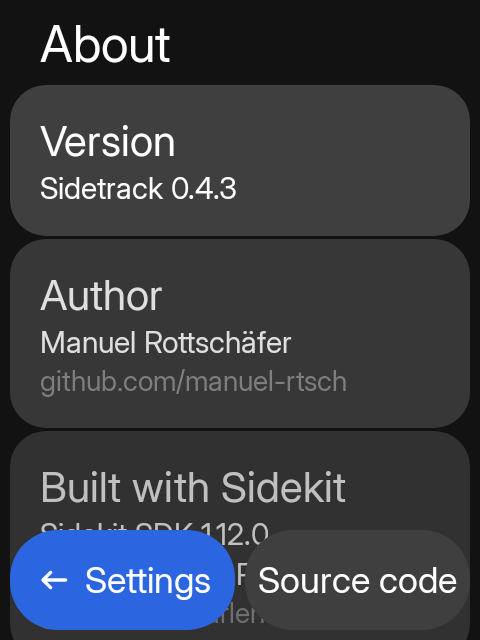
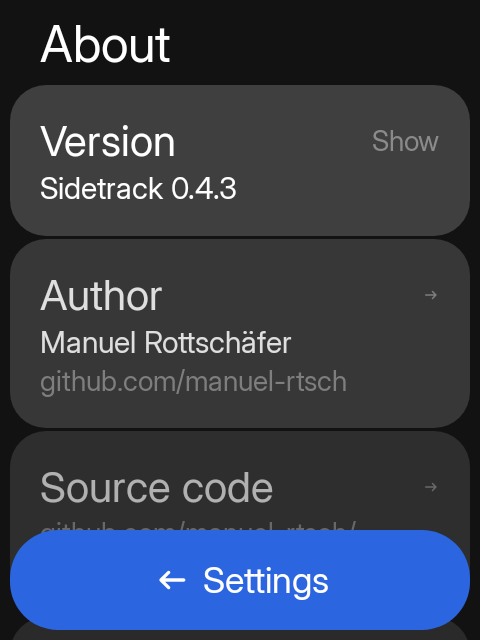
feat(about): make every card a keypad focus stop
The About page had one keyboard target: the Version card. The rest were
inert, so D-pad focus could not move through the page and Sidekit's list
could not scroll to the licences.

Every card now performs something and is a focus stop, with the first
card focused on entry. Source code left the action bar, where a link does
not belong, and became a body card beside the Author and Sidekit cards.
Author, Source code and Sidekit open their GitHub pages; Version toggles
the build details; Licences toggles its table and starts folded.

Add a focus-order test and cover the Version toggle; record the new
screenshot.

diff --git a/app/src/main/java/io/github/manuelrtsch/sidetrack/SidetrackAboutScreen.kt b/app/src/main/java/io/github/manuelrtsch/sidetrack/SidetrackAboutScreen.kt
@@ -9,6 +9,7 @@ import androidx.compose.foundation.layout.Row
 import androidx.compose.foundation.layout.fillMaxWidth
 import androidx.compose.foundation.lazy.rememberLazyListState
 import androidx.compose.runtime.Composable
+import androidx.compose.runtime.LaunchedEffect
 import androidx.compose.runtime.getValue
 import androidx.compose.runtime.mutableStateOf
 import androidx.compose.runtime.remember
@@ -16,37 +17,46 @@ import androidx.compose.runtime.saveable.rememberSaveable
 import androidx.compose.runtime.setValue
 import androidx.compose.ui.Alignment
 import androidx.compose.ui.Modifier
+import androidx.compose.ui.focus.FocusRequester
+import androidx.compose.ui.focus.focusRequester
 import androidx.compose.ui.platform.LocalContext
 import androidx.compose.ui.text.style.TextAlign
 import androidx.compose.ui.unit.dp
 import androidx.core.net.toUri
-import hrln.interactive.sidekit.design.action.ActionMotion
-import hrln.interactive.sidekit.design.action.ActionTone
-import hrln.interactive.sidekit.design.action.SideAction
 import hrln.interactive.sidekit.design.components.SidekitCard
 import hrln.interactive.sidekit.design.components.SidekitList
 import hrln.interactive.sidekit.design.components.SidekitScaffold
 import hrln.interactive.sidekit.design.components.SidekitText
 import hrln.interactive.sidekit.design.components.listFade
 import hrln.interactive.sidekit.design.theme.SidekitTheme
+import io.github.manuelrtsch.sidetrack.ui.InlineLinkArrowSize
+import io.github.manuelrtsch.sidetrack.ui.LinkArrow
 
-/** Where Sidetrack's source lives; the About page's "Source code" action opens it in a browser. */
+/** Where Sidetrack's source lives; the About page's "Source code" card opens it in a browser. */
 internal const val SOURCE_CODE_URL = "https://github.com/manuel-rtsch/Sidetrack"
 
+/** The author's page, opened from the Author card. */
+internal const val AUTHOR_URL = "https://github.com/manuel-rtsch"
+
+/** Sidekit's source lives in its author's repository; the Sidekit card opens it. */
+internal const val SIDEKIT_URL = "https://github.com/HarlenPostill/Sidekit"
+
 /**
- * Hands [SOURCE_CODE_URL] to whatever browser the device has. A ROM without one leaves the press
- * with nothing to do — there is no notice bar on the About page and nothing to undo — so the
- * missing activity is swallowed rather than crashing the app the user is reading about it in.
+ * Hands a page to whatever browser the device has. A ROM without one leaves the press with
+ * nothing to do — there is no notice bar on the About page and nothing to undo — so the missing
+ * activity is swallowed rather than crashing the app the user is reading about it in.
  */
-internal fun openSourceCode(context: Context) {
+internal fun openPage(context: Context, url: String) {
     try {
         context.startActivity(
-            Intent(Intent.ACTION_VIEW, SOURCE_CODE_URL.toUri()).addFlags(Intent.FLAG_ACTIVITY_NEW_TASK)
+            Intent(Intent.ACTION_VIEW, url.toUri()).addFlags(Intent.FLAG_ACTIVITY_NEW_TASK)
         )
     } catch (_: ActivityNotFoundException) {
         // No browser installed.
     }
 }
+
+internal fun openSourceCode(context: Context) = openPage(context, SOURCE_CODE_URL)
 
 private data class Licence(val software: String, val licence: String)
 
@@ -98,28 +108,29 @@ fun SidetrackAboutScreen(onBack: () -> Unit, backLabel: String = "Settings") {
     val versionName = packageInfo.versionName.orEmpty()
     val versionCode = packageInfo.longVersionCode
     val listState = rememberLazyListState()
+    // Every card is an action and therefore a focus stop: D-pad navigation scrolls the list the
+    // same way it does on the settings screens, instead of stalling on the one clickable card.
+    val first = remember { FocusRequester() }
+    LaunchedEffect(Unit) { runCatching { first.requestFocus() } }
     // The build number stays out of the screenshot: the plain tag is enough until it is asked
     // for, and a commit-count build number would change the image on every build.
     var showBuild by rememberSaveable { mutableStateOf(false) }
+    // The licence table is a reference, not a first read. Folding it away keeps the page short
+    // enough to reach every card with the keypad.
+    var showLicences by rememberSaveable { mutableStateOf(false) }
 
     SidekitScaffold(
         title = "About",
-        actions = sidetrackBack(backLabel, onBack) + SideAction(
-            "sourceCode",
-            "Source code",
-            tone = ActionTone.Muted,
-            motion = ActionMotion.Up,
-            onClick = { openSourceCode(context) }
-        )
+        actions = sidetrackBack(backLabel, onBack)
     ) { padding ->
         SidekitList(padding, state = listState) {
             item(key = "version") {
                 SidekitCard(
-                    Modifier.listFade(listState, 0).fillMaxWidth(),
-                    onClick = { showBuild = true }
+                    Modifier.listFade(listState, 0).fillMaxWidth().focusRequester(first),
+                    onClick = { showBuild = !showBuild }
                 ) {
                     Column(verticalArrangement = Arrangement.spacedBy(4.dp)) {
-                        SidekitText("Version", style = SidekitTheme.typography.headline)
+                        CardHeading("Version") { DisclosureLabel(showBuild) }
                         SidekitText(
                             "Sidetrack ${plainVersionName(versionName)}",
                             style = SidekitTheme.typography.label,
@@ -143,10 +154,17 @@ fun SidetrackAboutScreen(onBack: () -> Unit, backLabel: String = "Settings") {
                 }
             }
             item(key = "author") {
-                SidekitCard(Modifier.listFade(listState, 1).fillMaxWidth()) {
+                SidekitCard(
+                    Modifier.listFade(listState, 1).fillMaxWidth(),
+                    onClick = { openPage(context, AUTHOR_URL) }
+                ) {
                     Column(verticalArrangement = Arrangement.spacedBy(4.dp)) {
-                        SidekitText("Author", style = SidekitTheme.typography.headline)
-                        SidekitText("Manuel Rottschäfer", style = SidekitTheme.typography.label, maxLines = Int.MAX_VALUE)
+                        CardHeading("Author") { CardLinkArrow() }
+                        SidekitText(
+                            "Manuel Rottschäfer",
+                            style = SidekitTheme.typography.label,
+                            maxLines = Int.MAX_VALUE
+                        )
                         SidekitText(
                             "github.com/manuel-rtsch",
                             style = SidekitTheme.typography.caption,
@@ -156,10 +174,29 @@ fun SidetrackAboutScreen(onBack: () -> Unit, backLabel: String = "Settings") {
                     }
                 }
             }
-            item(key = "sidekit") {
-                SidekitCard(Modifier.listFade(listState, 2).fillMaxWidth()) {
+            item(key = "source") {
+                SidekitCard(
+                    Modifier.listFade(listState, 2).fillMaxWidth(),
+                    onClick = { openSourceCode(context) }
+                ) {
                     Column(verticalArrangement = Arrangement.spacedBy(4.dp)) {
-                        SidekitText("Built with Sidekit", style = SidekitTheme.typography.headline)
+                        CardHeading("Source code") { CardLinkArrow() }
+                        SidekitText(
+                            "github.com/manuel-rtsch/Sidetrack",
+                            style = SidekitTheme.typography.caption,
+                            color = SidekitTheme.colors.surfaceA6,
+                            maxLines = Int.MAX_VALUE
+                        )
+                    }
+                }
+            }
+            item(key = "sidekit") {
+                SidekitCard(
+                    Modifier.listFade(listState, 3).fillMaxWidth(),
+                    onClick = { openPage(context, SIDEKIT_URL) }
+                ) {
+                    Column(verticalArrangement = Arrangement.spacedBy(4.dp)) {
+                        CardHeading("Built with Sidekit") { CardLinkArrow() }
                         SidekitText(
                             "Sidekit SDK ${BuildConfig.SIDEKIT_VERSION}",
                             style = SidekitTheme.typography.label,
@@ -180,17 +217,58 @@ fun SidetrackAboutScreen(onBack: () -> Unit, backLabel: String = "Settings") {
                 }
             }
             item(key = "licenses") {
-                SidekitCard(Modifier.listFade(listState, 3).fillMaxWidth()) {
-                    Column(verticalArrangement = Arrangement.spacedBy(12.dp)) {
-                        SidekitText("Licenses", style = SidekitTheme.typography.headline)
-                        licences.forEach { entry ->
-                            LicenceRow(entry)
+                SidekitCard(
+                    Modifier.listFade(listState, 4).fillMaxWidth(),
+                    onClick = { showLicences = !showLicences }
+                ) {
+                    Column(verticalArrangement = Arrangement.spacedBy(if (showLicences) 12.dp else 4.dp)) {
+                        CardHeading("Licenses") { DisclosureLabel(showLicences) }
+                        if (showLicences) {
+                            licences.forEach { entry ->
+                                LicenceRow(entry)
+                            }
+                        } else {
+                            SidekitText(
+                                licences.map { it.licence }.distinct().joinToString(" · "),
+                                style = SidekitTheme.typography.caption,
+                                color = SidekitTheme.colors.surfaceA6,
+                                maxLines = Int.MAX_VALUE
+                            )
                         }
                     }
                 }
             }
         }
     }
+}
+
+/** A card's title on the left, with the thing the card does on the right. */
+@Composable
+private fun CardHeading(title: String, trailing: @Composable () -> Unit) {
+    Row(
+        modifier = Modifier.fillMaxWidth(),
+        verticalAlignment = Alignment.CenterVertically,
+        horizontalArrangement = Arrangement.spacedBy(8.dp)
+    ) {
+        SidekitText(title, Modifier.weight(1f), style = SidekitTheme.typography.headline)
+        trailing()
+    }
+}
+
+/** The arrow on a card that opens a page, at the same weight as the muted caption under it. */
+@Composable
+private fun CardLinkArrow() {
+    LinkArrow(size = InlineLinkArrowSize, tint = SidekitTheme.colors.surfaceA6)
+}
+
+/** The expandable cards say what OK will do, because the card itself cannot show a link arrow. */
+@Composable
+private fun DisclosureLabel(expanded: Boolean) {
+    SidekitText(
+        if (expanded) "Hide" else "Show",
+        style = SidekitTheme.typography.caption,
+        color = SidekitTheme.colors.surfaceA6
+    )
 }
 
 /**

diff --git a/app/src/test/java/io/github/manuelrtsch/sidetrack/AboutVersionTest.kt b/app/src/test/java/io/github/manuelrtsch/sidetrack/AboutVersionTest.kt
@@ -1,8 +1,12 @@
 package io.github.manuelrtsch.sidetrack
 
+import androidx.compose.ui.input.key.Key
+import androidx.compose.ui.test.assertIsFocused
 import androidx.compose.ui.test.junit4.v2.createComposeRule
 import androidx.compose.ui.test.onNodeWithText
 import androidx.compose.ui.test.performClick
+import androidx.compose.ui.test.performKeyInput
+import androidx.compose.ui.test.pressKey
 import androidx.test.ext.junit.runners.AndroidJUnit4
 import hrln.interactive.sidekit.design.canvas.SidekitCanvas
 import hrln.interactive.sidekit.design.theme.SidekitSpacing
@@ -53,6 +57,39 @@ class AboutVersionTest {
         // The engine is part of the same reveal: a tester's screenshot then says whether the APK
         // carries the native bridge or the rate-limited Web API fallback.
         compose.onNodeWithText(spotifyEngineLabel).assertExists()
+
+        // The card toggles: a second press puts the plain version back.
+        compose.onNodeWithText("Sidetrack $versionName").performClick()
+        compose.waitForIdle()
+        compose.onNodeWithText("Build $versionCode").assertDoesNotExist()
+        compose.onNodeWithText(spotifyEngineLabel).assertDoesNotExist()
+    }
+
+    @Test
+    fun cardsAreFocusStopsInKeypadOrder() {
+        compose.setContent {
+            SidekitTheme(spacing = SidekitSpacing.Compact) {
+                SidekitCanvas {
+                    SidetrackAboutScreen(onBack = {})
+                }
+            }
+        }
+        compose.waitForIdle()
+
+        // Entry focus lands on the first card rather than nowhere, as on every other list screen.
+        compose.onNodeWithText("Version").assertIsFocused()
+        compose.onNodeWithText("Version").performKeyInput { pressKey(Key.DirectionDown) }
+        compose.waitForIdle()
+        compose.onNodeWithText("Author").assertIsFocused()
+        compose.onNodeWithText("Author").performKeyInput { pressKey(Key.DirectionDown) }
+        compose.waitForIdle()
+        compose.onNodeWithText("Source code").assertIsFocused()
+        compose.onNodeWithText("Source code").performKeyInput { pressKey(Key.DirectionDown) }
+        compose.waitForIdle()
+        compose.onNodeWithText("Built with Sidekit").assertIsFocused()
+        compose.onNodeWithText("Built with Sidekit").performKeyInput { pressKey(Key.DirectionDown) }
+        compose.waitForIdle()
+        compose.onNodeWithText("Licenses").assertIsFocused()
     }
 
     @Test
